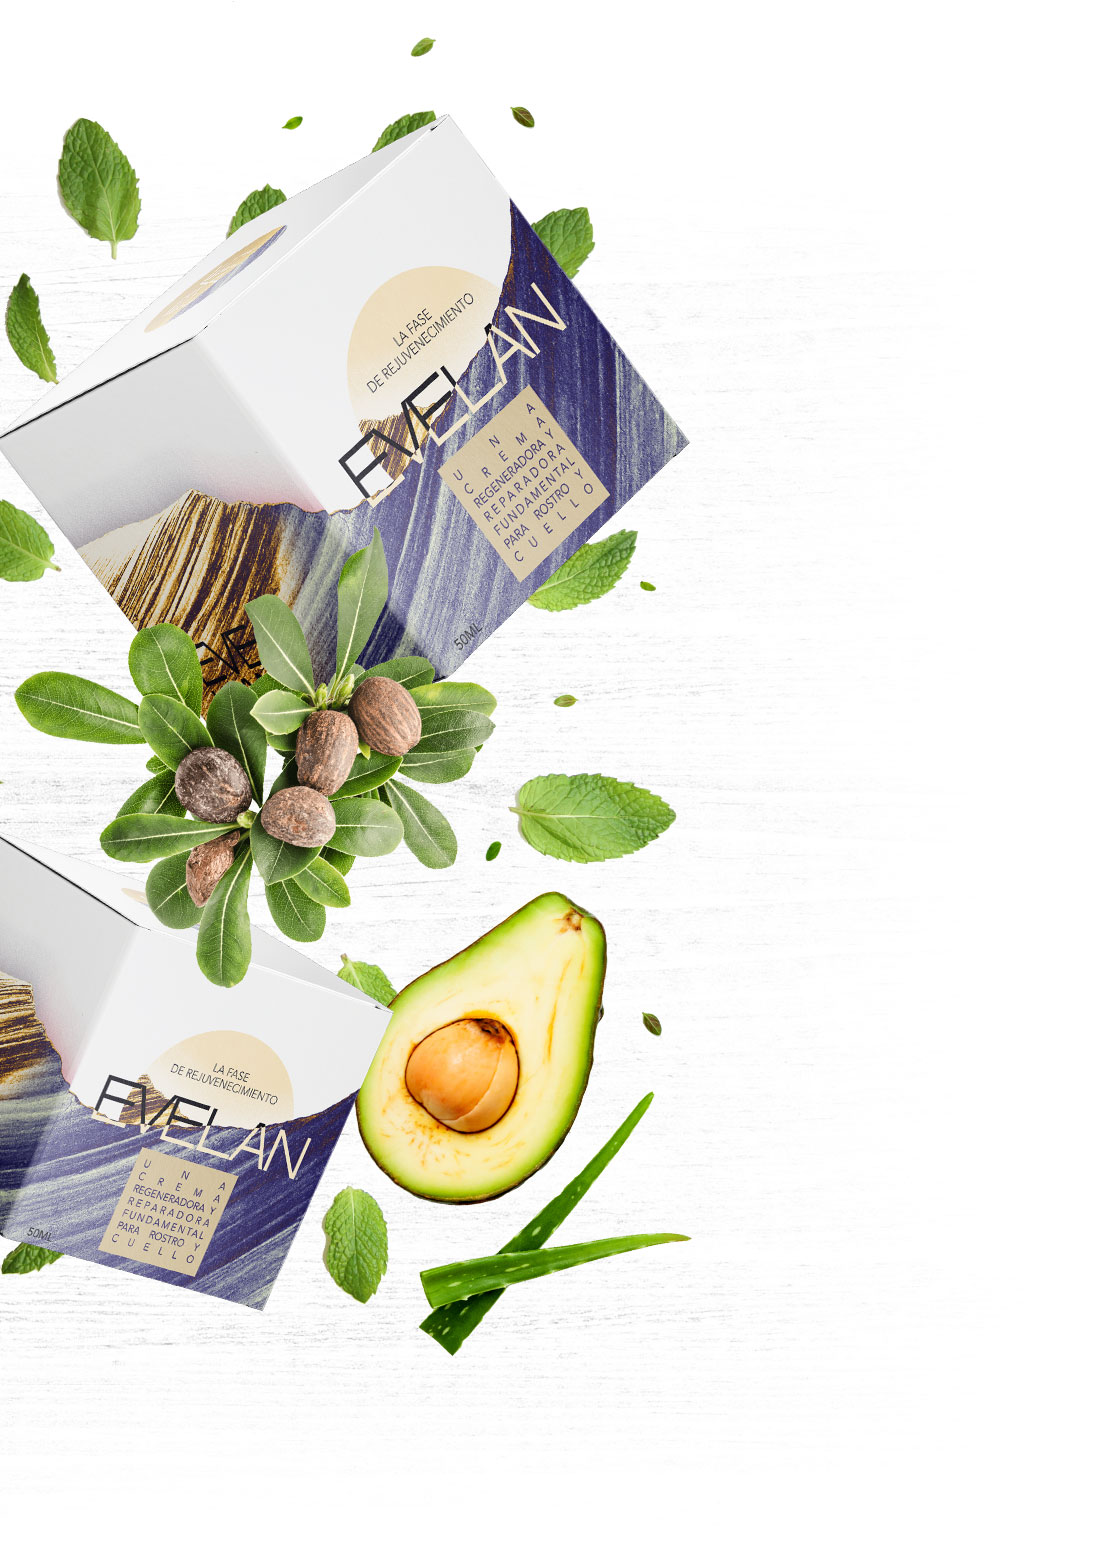
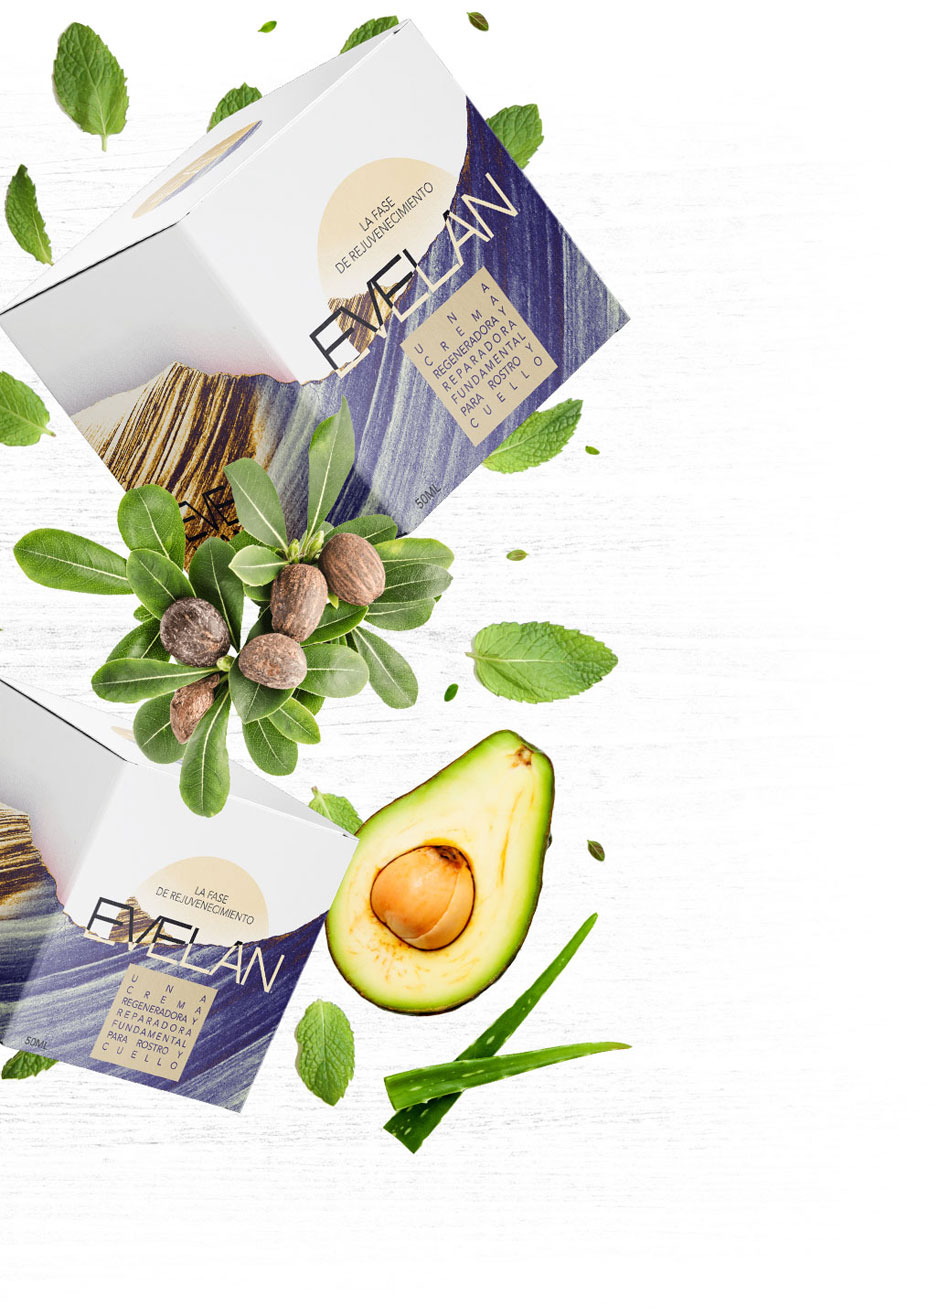
правки по блоку sostav

diff --git a/src/sass/core/section.scss b/src/sass/core/section.scss
@@ -45,7 +45,7 @@
         background-color: #fff;
         background-image: url("../media/section/sostav.jpg");
         background-repeat: no-repeat;
-        background-position: left top;
+        background-position: calc(100% - 967px) top;
     }
 }
 
@@ -89,6 +89,7 @@
         }
 
         &_sostav {
+            padding-top: 60px;
             padding-bottom: 440px;
             background-color: #fff;
             background-image: url("../media/section/sostav-1280.jpg");
